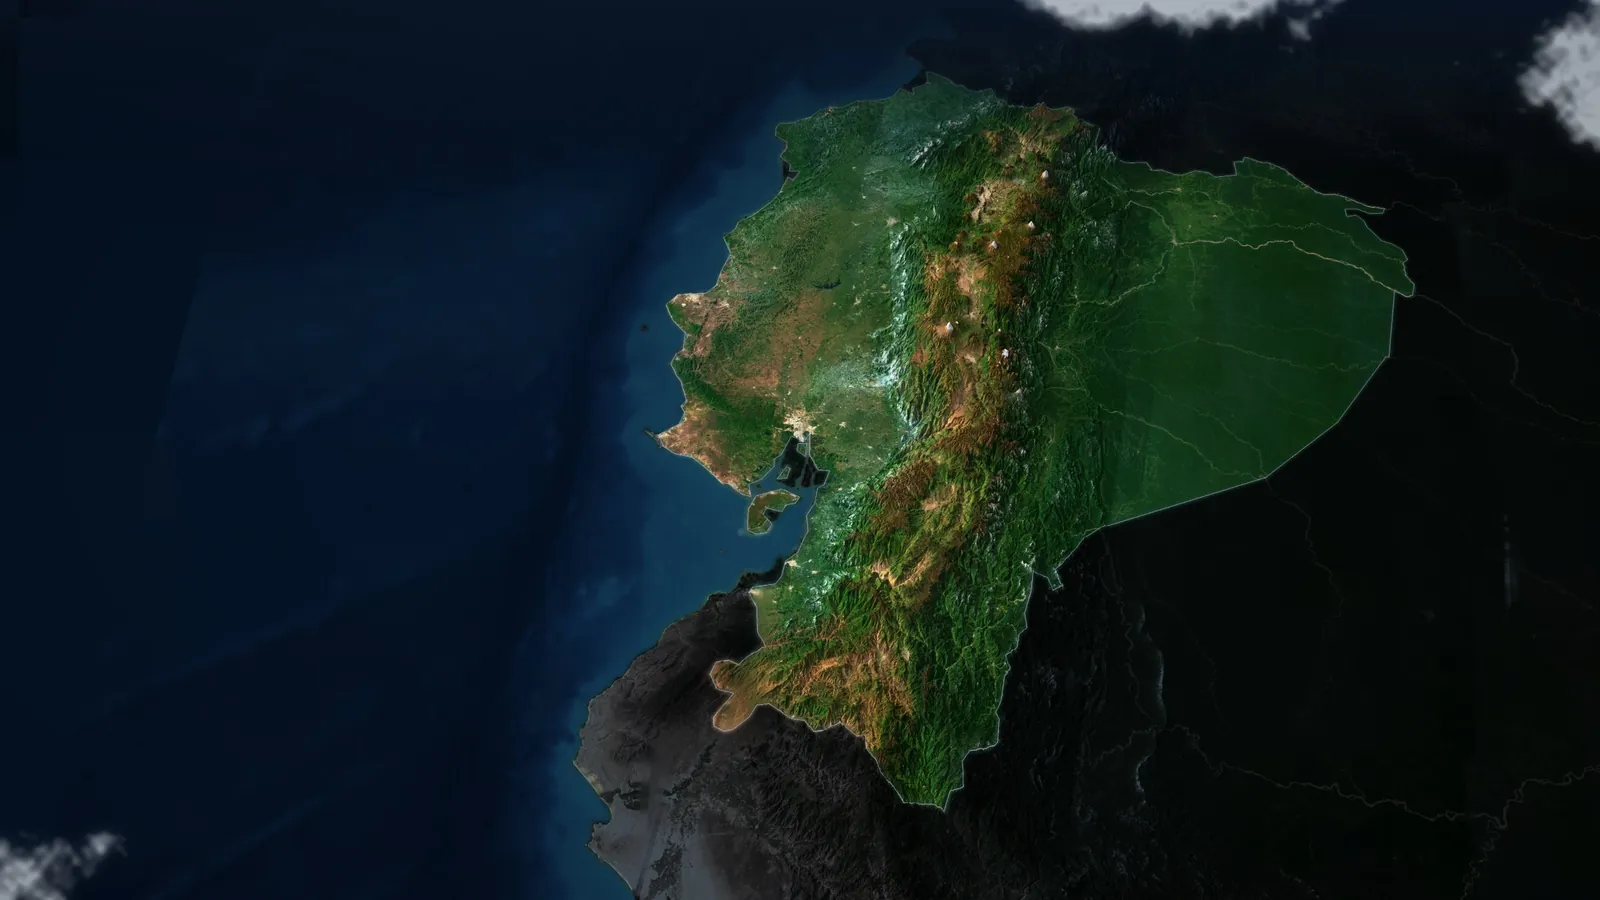
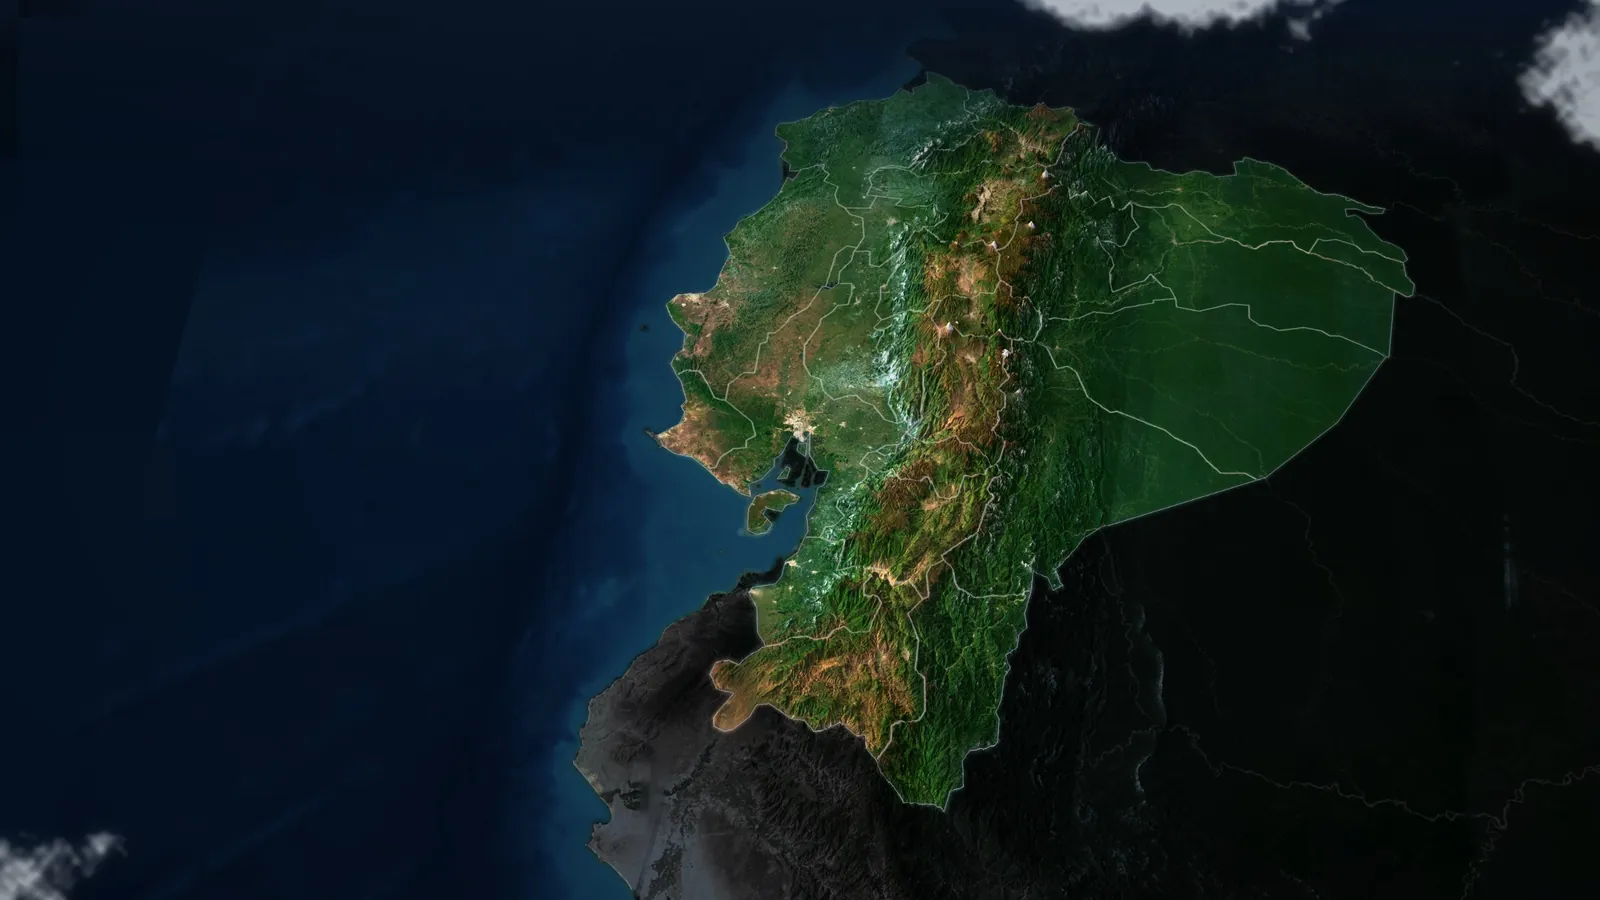
Mapa de obras: división y nombres de provincias, resaltando las que tienen obras
Claude-Session: https://claude.ai/code/session_01EVEbVmNqyqwJ4nbjDw68ri

diff --git a/index.html b/index.html
@@ -231,6 +231,10 @@
 .sat.used .sat-hint{opacity:0}
 .sat-credit{position:absolute;z-index:3;right:12px;bottom:8px;margin:0;font:500 .56rem var(--f-mono);color:rgba(220,230,242,.22);transition:color .3s}.sat-credit:hover{color:rgba(220,230,242,.6)}
 .sat-pins{position:absolute;inset:0;z-index:2}
+.sat-provs{position:absolute;inset:0;z-index:1;pointer-events:none;opacity:0;transition:opacity .8s .3s}.sat.in .sat-provs{opacity:1}
+.sat-prov{position:absolute;left:0;top:0;white-space:nowrap;font:600 .62rem/1 var(--f-mono);letter-spacing:.14em;text-transform:uppercase;color:rgba(255,255,255,.62);text-shadow:0 1px 3px rgba(0,0,0,.85),0 0 10px rgba(0,0,0,.6)}
+.sat-prov.has{color:#fff;font-weight:700;font-size:.7rem}
+.sat-prov.has::before{content:"";display:inline-block;width:5px;height:5px;margin:0 6px 1px 0;border-radius:50%;background:var(--accent);box-shadow:0 0 6px rgba(255,138,61,.9);vertical-align:middle}
 .sat.lt{background:var(--bg);color:var(--fg)}
 .sat.lt .sat-shade{background:linear-gradient(90deg,rgba(243,245,248,.94) 0%,rgba(243,245,248,.78) 26%,rgba(243,245,248,.2) 48%,transparent 60%),linear-gradient(180deg,var(--bg) 0%,transparent 7%,transparent 86%,var(--bg) 100%)}
 .sat.lt .sat-copy h2{color:var(--fg)}
@@ -274,6 +278,7 @@
 .sat-card .go svg{width:16px;height:16px}
 .sat-card .x{display:none}
 @media (max-width:760px){
+  .sat-provs{z-index:3}.sat-prov{font-size:.5rem;letter-spacing:.08em}.sat-prov.has{font-size:.56rem;padding:2px 5px;border-radius:4px;background:rgba(6,14,26,.62);text-shadow:none}
   .sat{height:auto;overflow:visible;background:var(--bg);display:flex;flex-direction:column}
   .sat-copy{position:relative;order:-1;left:auto;right:auto;top:auto;width:auto;padding:24px 20px 14px;gap:10px}
   .sat-copy h2{font-size:2rem}
@@ -1011,6 +1016,7 @@ footer a{color:var(--muted)}
         <img id="sat-img" src="/img/paisaje-ecuador-1600.webp" srcset="/img/paisaje-ecuador-1600.webp 1600w, /img/paisaje-ecuador-2560.webp 2560w" sizes="100vw" width="2560" height="1440" alt="Imagen satelital del Ecuador continental con el relieve de los Andes, la costa del Pacífico y la Amazonía" decoding="async">
       </picture>
       <div class="sat-shade" aria-hidden="true"></div>
+      <div class="sat-provs" id="sat-provs" aria-hidden="true"></div>
       <div class="sat-pins" id="sat-pins"></div>
       <svg class="sat-wire" id="sat-wire" aria-hidden="true"><line/><circle r="3.5"/></svg>
       <p class="sat-hint" id="sat-hint"><svg viewBox="0 0 24 24" fill="none" stroke="currentColor" stroke-width="1.8"><rect x="7" y="3" width="10" height="18" rx="5"/><path d="M12 7v3"/></svg><span data-i18n="sat.hint">Pasa el cursor por un punto para explorar</span></p>
@@ -1444,6 +1450,10 @@ footer a{color:var(--muted)}
       var box=$('sat'),pinsEl=$('sat-pins'),card=$('sat-card'),wire=$('sat-wire'),chips=$('sat-chips');
       var PT={desk:{w:2560,h:1440,ox:.62,oy:.25,p:{metro:[.61157,.2305],manduriacu:[.58144,.18239],agoyan:[.62834,.37104],sanfco:[.63677,.37247],otavalo:[.63202,.18626],esmeraldas:[.51864,.12301],vistavalle:[0.61654,0.23843],colegio:[0.62383,0.22327],bauhaus:[0.61379,0.22579],carls:[0.61314,0.22729]}},
               mob:{w:1080,h:1350,ox:.5,oy:.5,p:{metro:[.51264,.29998],manduriacu:[.46258,.24881],agoyan:[.53285,.43262],sanfco:[.54722,.43516],otavalo:[.55419,.25587],esmeraldas:[.35075,.18647],vistavalle:[0.52106,0.30789],colegio:[0.53551,0.29384],bauhaus:[0.51705,0.29561],carls:[0.51575,0.29700]}}};
+      // nombres de provincia (misma cámara que el paisaje); las que tienen obras se resaltan
+      var PV=[["Azuay",0.5666,0.5805,0.407,0.627],["Bolívar",0.5623,0.4136,0.4116,0.4725],["Cañar",0.5729,0.5116,0.4234,0.5635],["Carchi",0.6572,0.1261,0.677,0.1696],["Cotopaxi",0.5876,0.3186,0.3829,0.3844],["Chimborazo",0.6008,0.4435,0.4763,0.5035],["El Oro",0.5075,0.6648,0.3044,0.6931],["Esmeraldas",0.5424,0.1441,0.3433,0.2086],["Guayas",0.4903,0.4462,0.2841,0.4985],["Imbabura",0.6162,0.1456,0.5489,0.214],["Loja",0.5398,0.7539,0.3542,0.7703],["Los Ríos",0.5252,0.3933,0.3485,0.4497],["Manabí",0.4893,0.2751,0.2892,0.3378],["Morona Santiago",0.6751,0.513,0.6041,0.5615],["Napo",0.6608,0.299,0.657,0.3756],["Pastaza",0.7742,0.4326,0.7885,0.4866],["Tungurahua",0.6015,0.356,0.4851,0.42],["Pichincha",0.5816,0.2644,0.4561,0.3321],["Zamora Chinchipe",0.602,0.7096,0.4622,0.7329],["Sucumbíos",0.7928,0.2273,0.8486,0.2913],["Orellana",0.8363,0.3243,0.9144,0.3851],["Santo Domingo",0.5418,0.2359,0.3362,0.3023],["Santa Elena",0.4446,0.476,0.2021,0.5259]];
+      var provsEl=$('sat-provs'),conObra={};OBRAS.forEach(function(o){o.prov.split(' / ').forEach(function(p){conObra[p]=1})});
+      PV.forEach(function(p){var e=document.createElement('span');e.className='sat-prov'+(conObra[p[0]]?' has':'');e.textContent=p[0];provsEl.appendChild(e);p.el=e});
       var mq=matchMedia('(max-width:760px)'),flt='all',cur=0,shown=-1;
       OBRAS.forEach(function(o,i){var b=document.createElement('button');b.type='button';b.className='sat-pin';b.dataset.i=i;b.innerHTML='<span class="g"></span><span class="h"></span>';
         b.setAttribute('aria-label',o.es.t+' · '+o.city);pinsEl.appendChild(b);o.satEl=b;
@@ -1456,7 +1466,8 @@ footer a{color:var(--muted)}
         // obras casi en el mismo sitio (Quito, centrales de Baños): se apartan lo justo para poder tocarlas
         for(var it=0;it<40;it++)for(var i=0;i<pos.length;i++)for(var j=i+1;j<pos.length;j++){var a=pos[j][0]-pos[i][0],b=pos[j][1]-pos[i][1],dd=Math.hypot(a,b);
           if(dd<M){if(dd<.01){a=Math.cos(i+j);b=Math.sin(i+j);dd=1}var k=(M-dd)/2/dd;pos[i][0]-=a*k;pos[i][1]-=b*k;pos[j][0]+=a*k;pos[j][1]+=b*k}}
-        OBRAS.forEach(function(o,i){o.satXY=[pos[i][0],pos[i][1]];o.satEl.style.transform='translate('+o.satXY[0]+'px,'+o.satXY[1]+'px)'});place()}
+        OBRAS.forEach(function(o,i){o.satXY=[pos[i][0],pos[i][1]];o.satEl.style.transform='translate('+o.satXY[0]+'px,'+o.satXY[1]+'px)'});
+        var mob=c===PT.mob;PV.forEach(function(p){var x=x0+(mob?p[3]:p[1])*c.w*s,y=y0+(mob?p[4]:p[2])*c.h*s;p.el.style.transform='translate('+x+'px,'+y+'px) translate(-50%,-50%)'});place()}
       function fill(i){var o=OBRAS[i],t=o[L()],u=o.img||(o.pr&&PRODS[o.pr]&&PRODS[o.pr].img[0]),lbl=L()==='en'?'View project':'Ver proyecto';
         var arrow='<svg viewBox="0 0 24 24" fill="none" stroke="currentColor" stroke-width="2.4" stroke-linecap="round" stroke-linejoin="round"><path d="M7 17 17 7M8 7h9v9"/></svg>';
         card.style.setProperty('--c',SECT[o.s].c);
